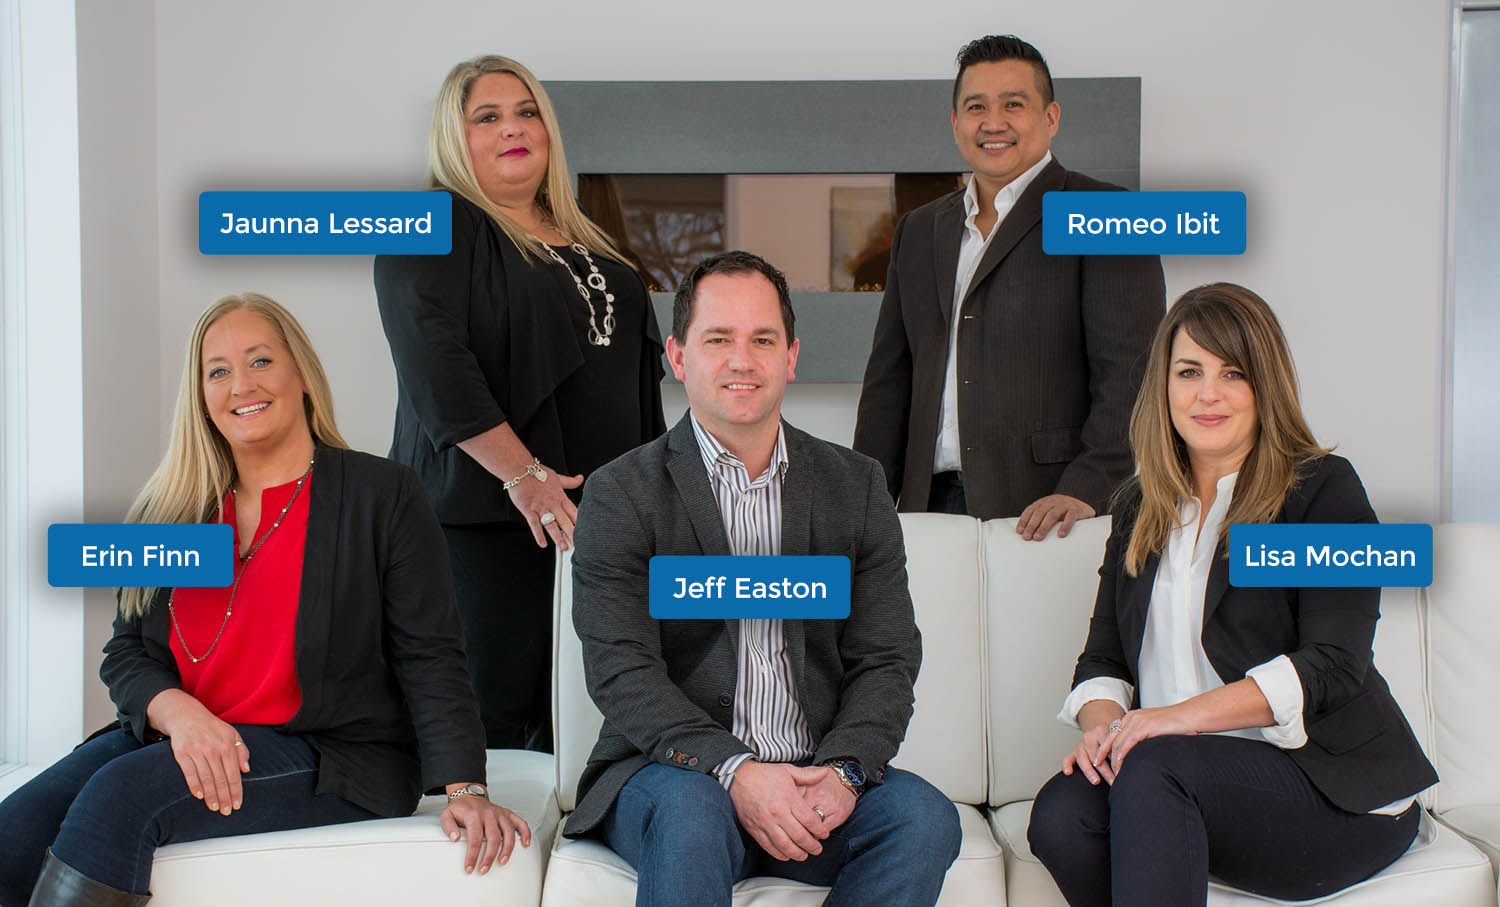
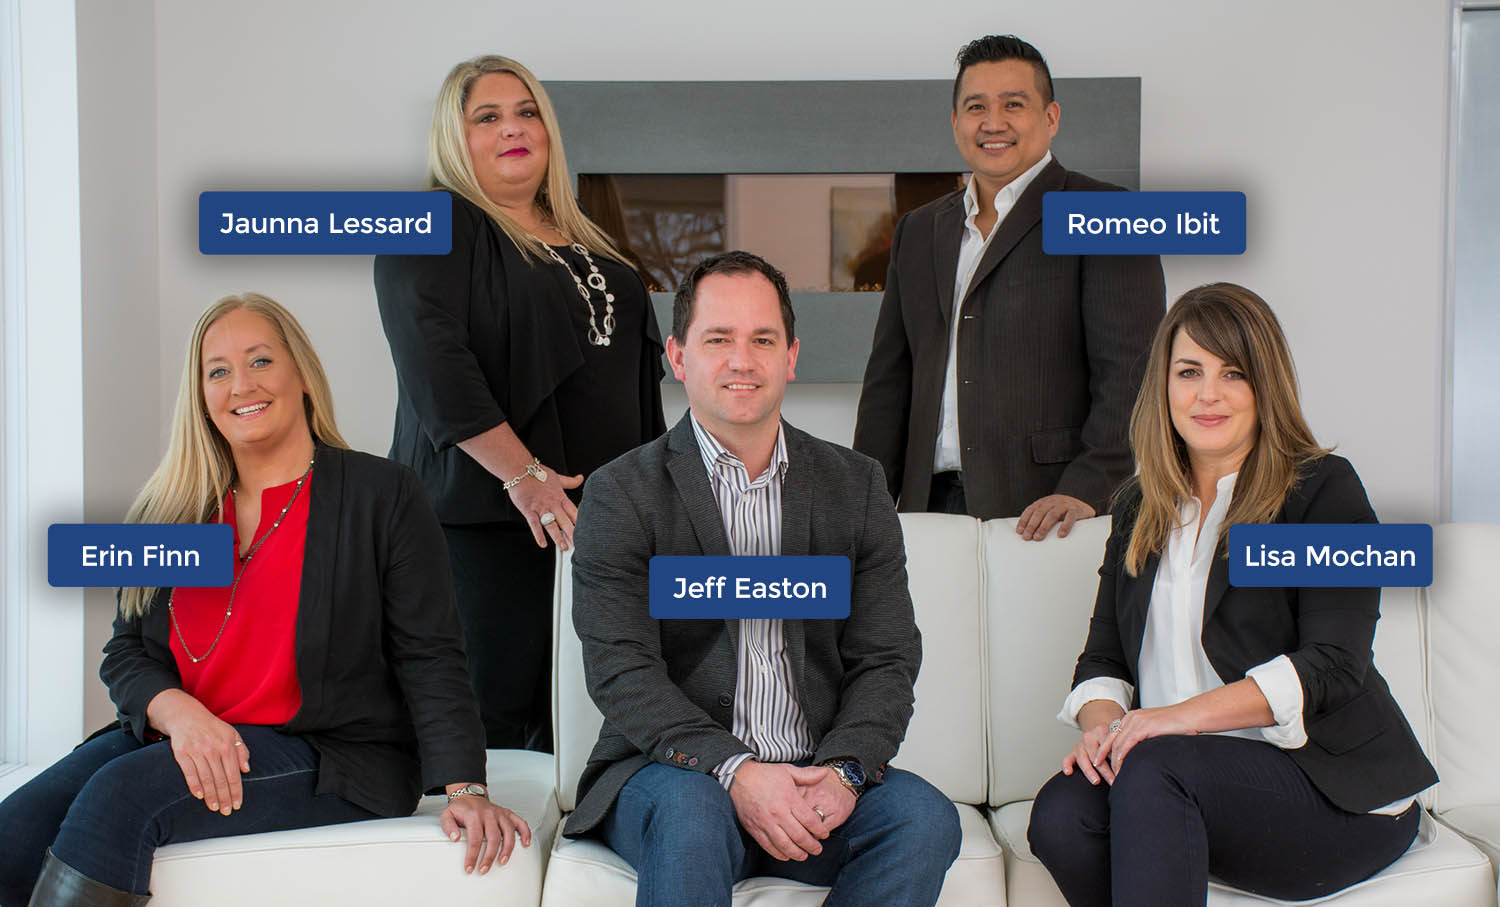
More items from Jenna's Review
Next/Prev buttons for Owl Carousel now appear styled and at either side
of the carousel, midway up. Page title boxes that had blue BG now have
no BG, with blue, lighter text. Jumbotron buttons have a new, lighter,
less bold style (outlines). Updated the blue in the team photo names to
be the darker royal blue.

diff --git a/inc/css/ytre.css b/inc/css/ytre.css
@@ -20,7 +20,6 @@ body {
 header#masthead {
     position: relative;
     background-color: #ffffff;
-    border-bottom: 10px solid;
 }
 .site-branding {
     background-color: #214580;
@@ -217,6 +216,10 @@ a.button span.fa {
     vertical-align: top;
     margin-right: 5px;
 }
+div#jumbotron-buttons a.button {
+    border: 2px solid rgba(255, 255, 255, .80) !important;
+    background: none !important;
+}
 @media (max-width:599px) {
     div#jumbotron-buttons a.button {
         width: 100%;
@@ -242,7 +245,7 @@ a.button span.fa {
     height: 0px;
     border-left: 100px solid transparent;
     border-right: 100px solid transparent;
-    border-top: 30px solid #0070a7;
+    border-top: 30px solid;
     position: absolute;
     left: 50%;
     margin-left: -100px;
@@ -280,7 +283,7 @@ div#featured-listings-widgets {
 }
 ul#featured-listings {
     margin: 0 0 30px 0;
-    padding: 25px 15px;
+    padding: 25px 0;
     border-radius: 8px;
     list-style: none;
 }
@@ -611,7 +614,10 @@ div#single-title-box {
     min-height: 75px;
 }
 div#single-title-box .entry-title {
-    margin: 0;
+    margin: 50px 0 0 0;
+    font-family: Lato;
+    font-weight: 300;
+    font-size: 40px;
 }
 
 /** Single Property Template
@@ -1165,7 +1171,7 @@ h3#team-photo-display-name {
     
 }
 p.team-page-blurb {
-    margin: 75px 0 50px 0;
+    margin: 0 0 50px 0;
     text-align: center;
     font-weight: 300;
     font-size: 20px;
@@ -1711,8 +1717,8 @@ div#search-results-wrapper .search-result-item a {
     .home header#masthead {
         background-color: #214580;
     }
-    .home header#masthead.sticky-header {
-        position: absolute !important;
+    .home header#masthead {
+        position: relative !important;
     }
 }
 
@@ -1744,4 +1750,37 @@ header#masthead .search-form input.search-field:-moz-placeholder { /* Firefox 4 
 .home header#masthead.sticky-header {
     position: fixed;
     background-color: #214580;
+}
+
+/** Featured Listings Carousel Next/Prev
+**/
+#featured-listings .owl-buttons {
+    position: absolute;
+    top: 40%;
+    width: 100%;
+}
+#featured-listings .owl-buttons .owl-prev {
+    float: left;
+    /*margin-left: -20px;*/
+}
+#featured-listings .owl-buttons .owl-next {
+    float: right;
+    /*margin-right: -20px;*/
+}
+#featured-listings .owl-buttons div {
+    width: 40px;
+    height: 40px;
+    line-height: 36px;
+    background-color: #214580;
+    opacity: 1;
+    padding: 0;
+    font-size: 26px;
+    border-radius: 4px;
+    margin: 0 !important;
+}
+
+@media (max-width:600px) {
+/*    #featured-listings .owl-buttons {
+        width: 100%;
+    }   */
 }

diff --git a/inc/ytre/ytre.php b/inc/ytre/ytre.php
@@ -161,7 +161,6 @@ function ytre_custom_css() { ?>
 
             #jumbotron-tagline,
             footer#colophon,
-            div#single-title-box,
             .galleria-theme-classic .galleria-info-text,
             #single-property-title,
             div#floating-filter-search .edge-block,
@@ -175,6 +174,7 @@ function ytre_custom_css() { ?>
             #property-heading .entry-title,
             #listing-agent-sidebar .epl-author-box .epl-author-title a,
             .property-box .price,
+            div#single-title-box,
             .epl-archive-default h3.archive-page-subtitle,
             .grid2 .sc_team_member .sc_team_member_name a {
                 color: <?php echo esc_attr( $skin[ 'primary' ] ); ?>;
@@ -187,6 +187,10 @@ function ytre_custom_css() { ?>
             header#masthead,
             .grid2 .sc_team_member_inner .image-container {
                 border-color: <?php echo esc_attr( $skin[ 'primary' ] ); ?>;
+            }
+            
+            #jumbotron-tagline .arrow {
+                border-top-color: <?php echo esc_attr( $skin[ 'primary' ] ); ?>;
             }
         
         /* --- SECONDARY COLOR --- */
@@ -205,7 +209,8 @@ function ytre_custom_css() { ?>
                 background-color: <?php echo esc_attr( $skin[ 'secondary' ] ); ?>;
             }
             
-            .jumbo-title span {
+            .jumbo-title span,
+            div#jumbotron-buttons a.button:hover {
                 color: <?php echo esc_attr( $skin[ 'secondary' ] ); ?>;
             }
             
@@ -214,6 +219,10 @@ function ytre_custom_css() { ?>
             .nav-pills>li.active:hover>a,
             div#scx-widget .scx-button.scx-primary:hover {
                 background-color: <?php echo esc_attr( $skin[ 'secondary' ] ); ?> !important;
+            }
+            
+            div#jumbotron-buttons a.button:hover {
+                border-color: <?php echo esc_attr( $skin[ 'secondary' ] ); ?> !important;
             }
         
         /* --- SECONDARY ACCENT COLOR --- */
@@ -320,7 +329,7 @@ function ytre_custom_js() { ?>
                     itemsMobile : [499,1],
                     pagination : false,
                     navigation : true,
-                    navigationText : ["Prev","Next"]
+                    navigationText : ["«","»"]
                 });    
 
             }
